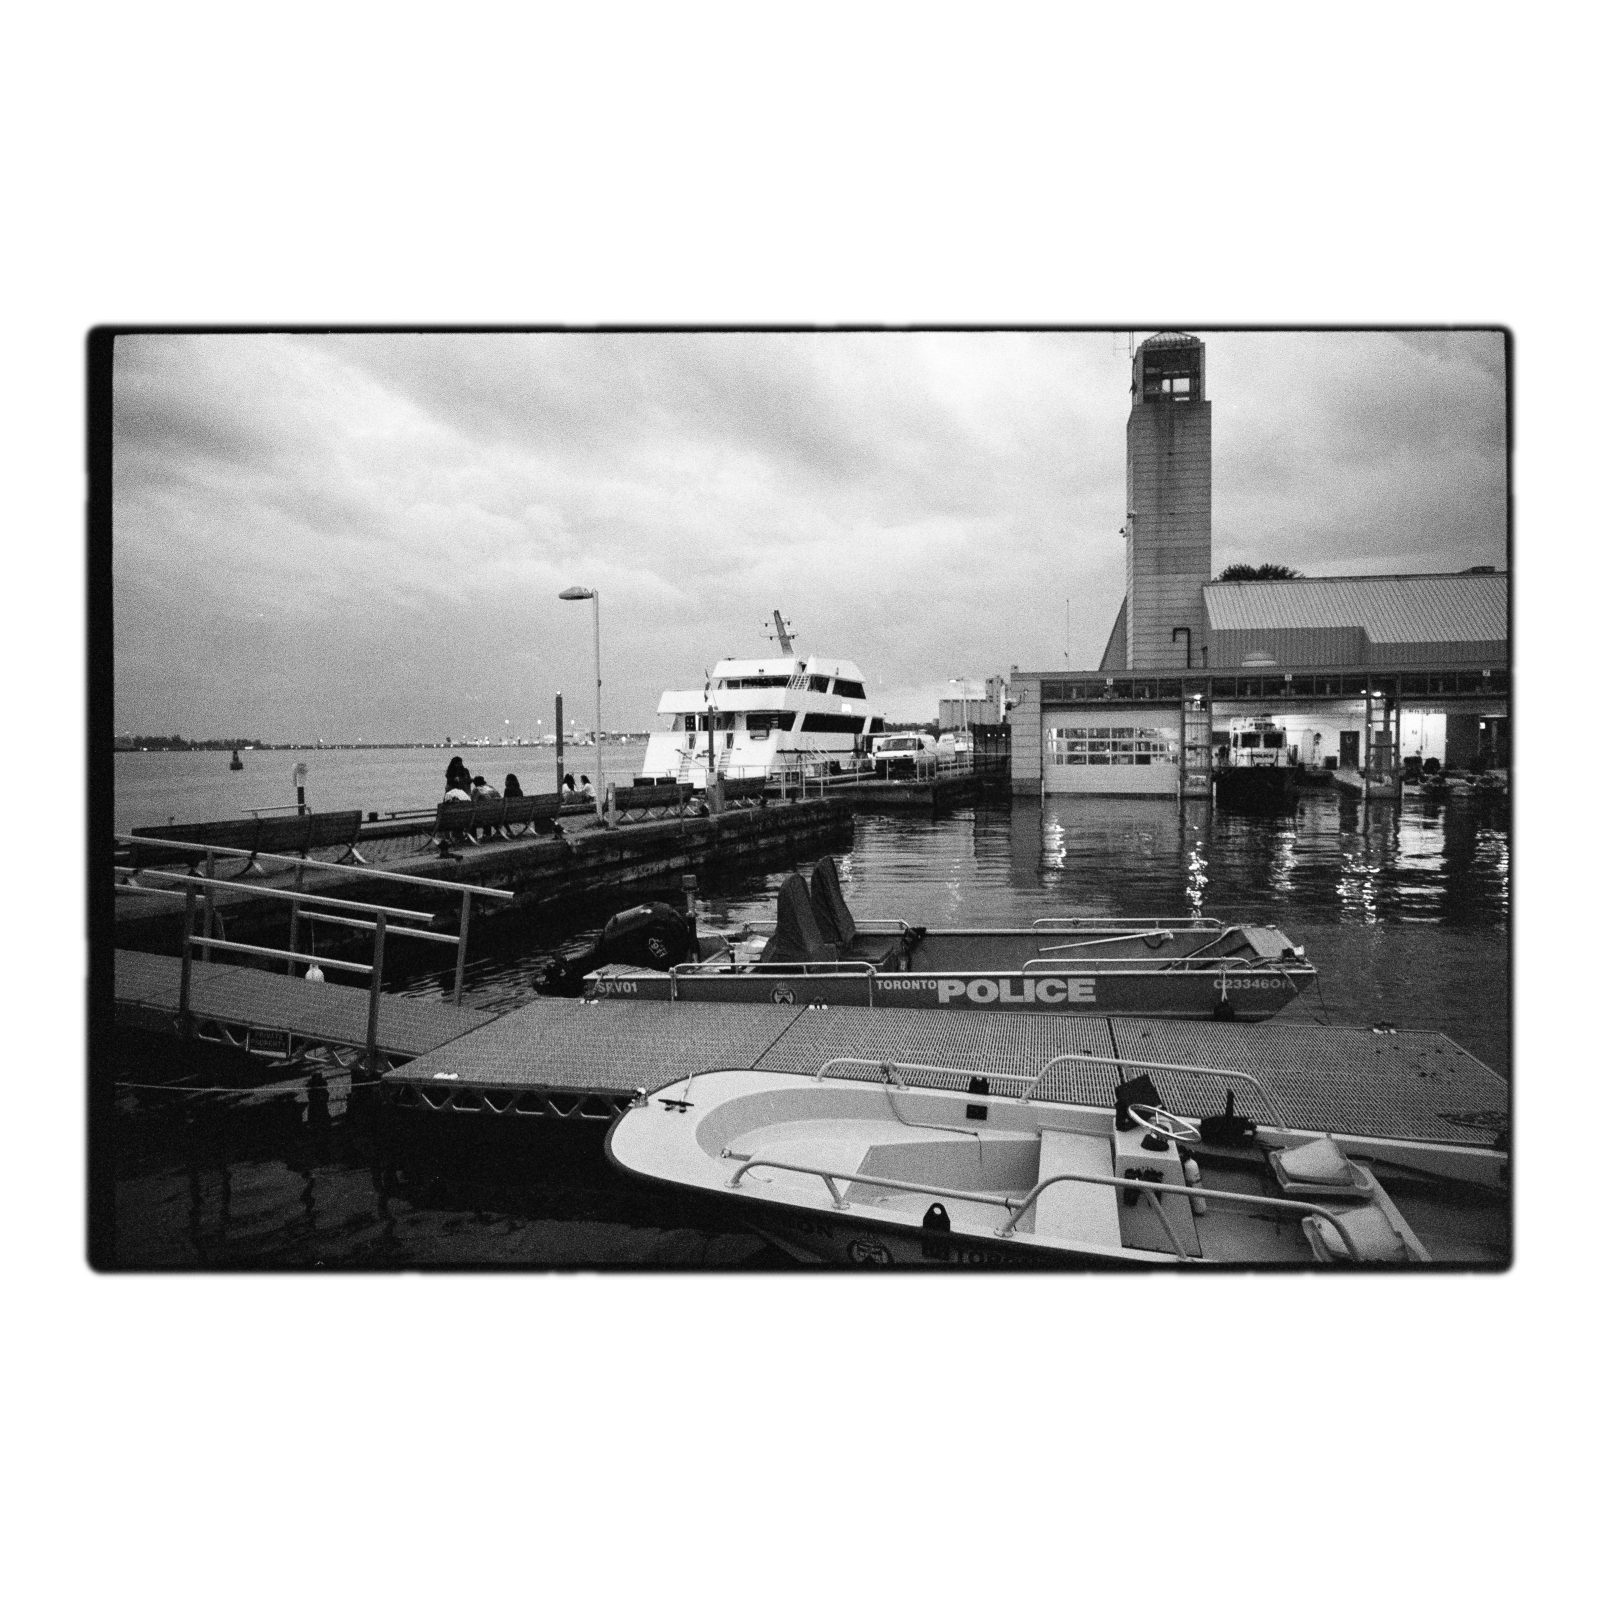
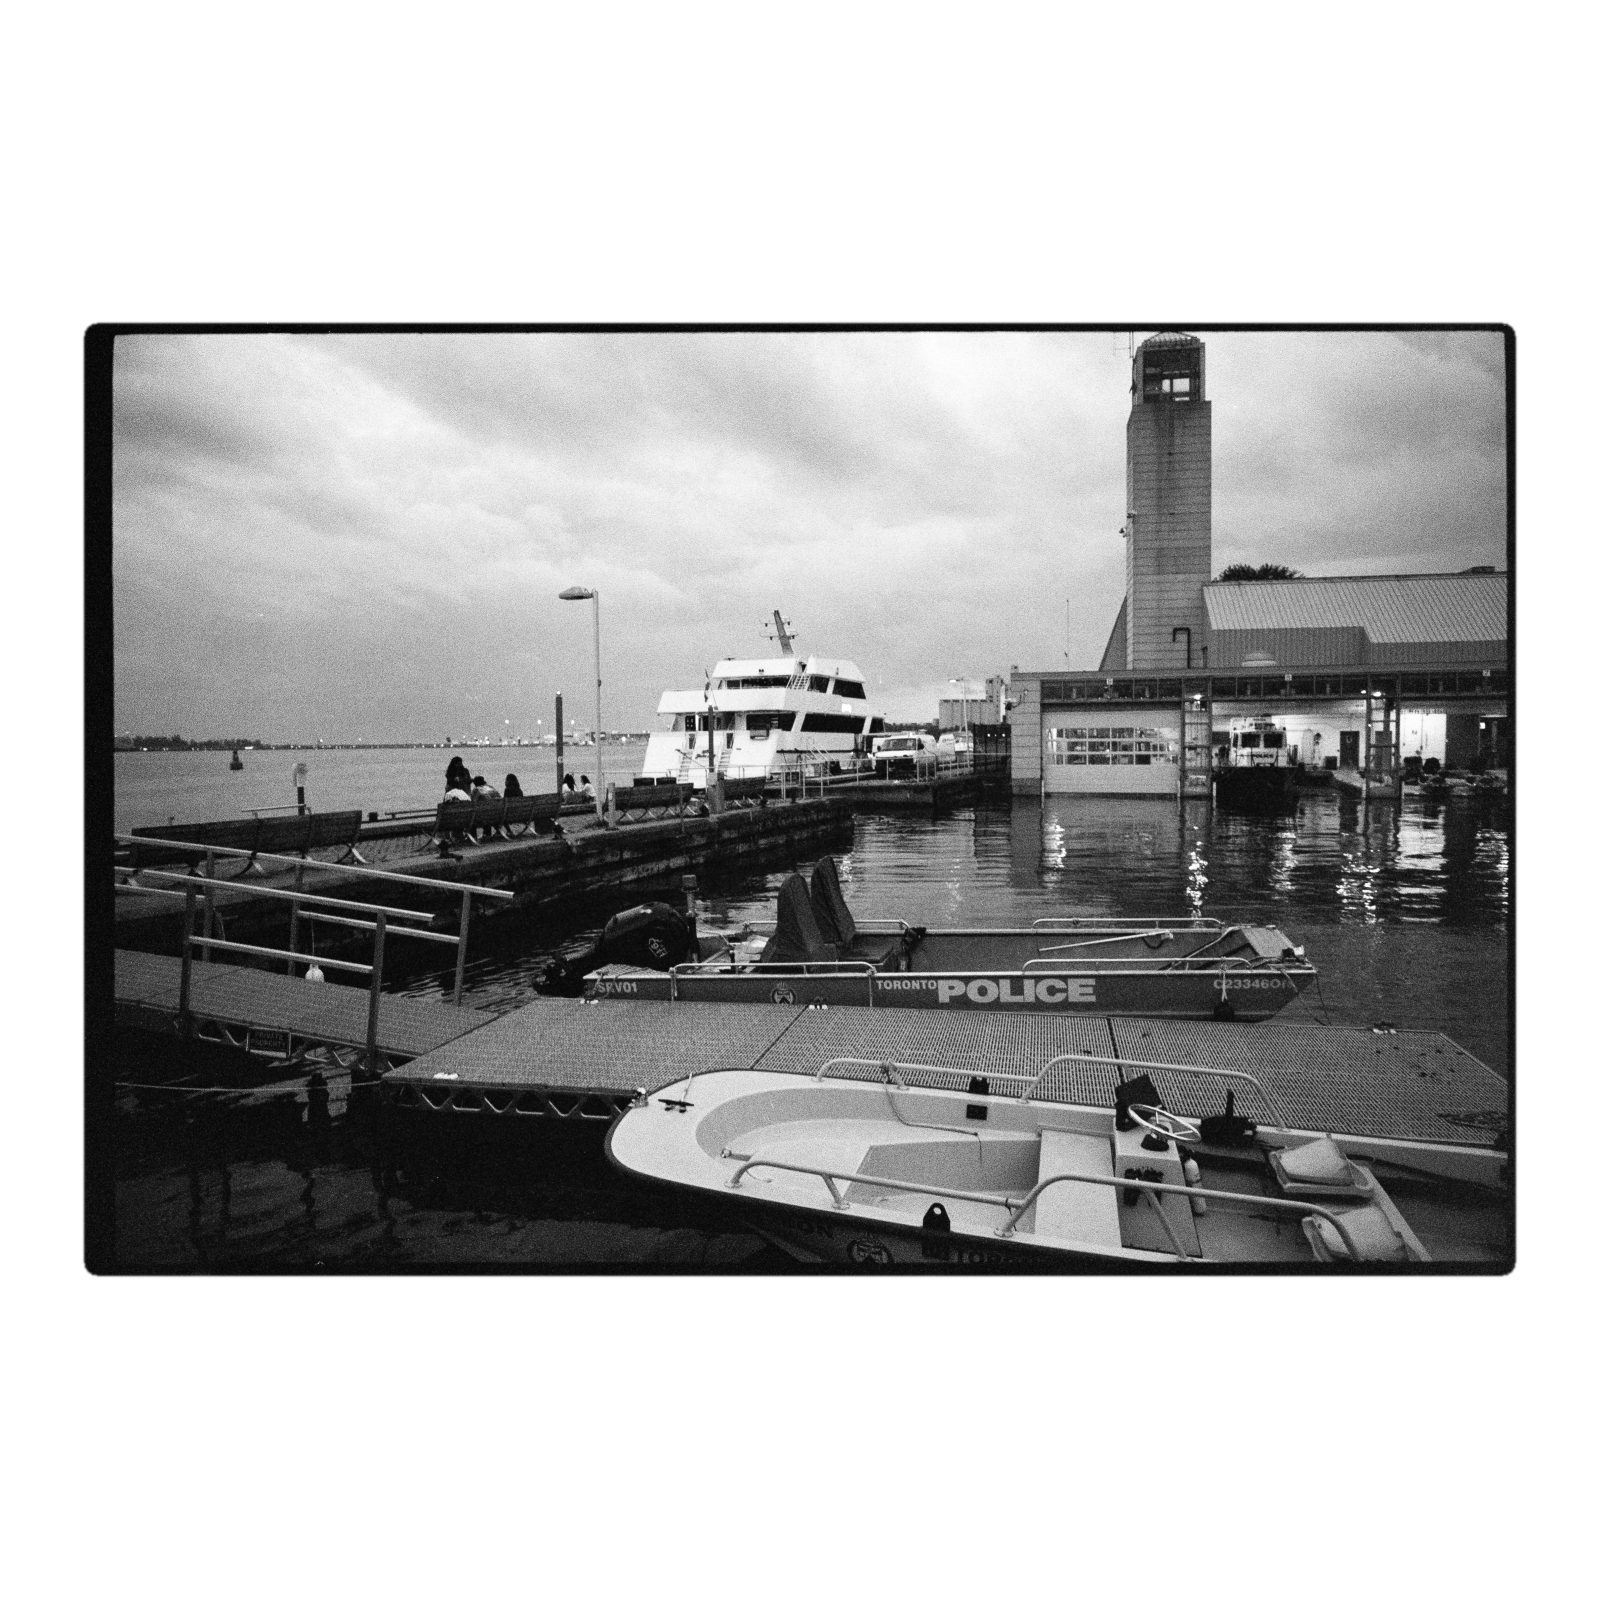
Simplify default edges (feather 1.0, roughness 0.25) and regenerate natural samples

diff --git a/rebate.py b/rebate.py
@@ -523,11 +523,11 @@ def main():
     ap.add_argument("--radius-jitter", type=float, default=0.25,
                     help="random +/- variation of the corner radius, as a "
                          "fraction (default 0.25)")
-    ap.add_argument("--roughness", type=float, default=0.5,
+    ap.add_argument("--roughness", type=float, default=0.25,
                     help="edge irregularity in px (0 = perfectly straight; "
-                         "default 0.5)")
-    ap.add_argument("--feather", type=float, default=2.5,
-                    help="edge softness in px (default 2.5)")
+                         "default 0.25)")
+    ap.add_argument("--feather", type=float, default=1.0,
+                    help="edge softness in px (default 1.0)")
     ap.add_argument("--seed", type=int, default=None,
                     help="random seed for edge texture (default: random)")
     ap.add_argument("--quality", type=int, default=100,

diff --git a/README.md b/README.md
@@ -64,8 +64,8 @@ Or explicitly:
 | `--border`    | `0.012`         | film border kept around the gate (fraction of gate height)|
 | `--radius`    | `0.015`         | corner radius (fraction of final crop size)              |
 | `--radius-jitter` | `0.25`       | random +/- variation of corner radius (fraction)         |
-| `--roughness` | `0.5`           | edge irregularity in px (0 = perfectly straight)         |
-| `--feather`   | `2.5`           | edge softness in px (0 = hard edge)                      |
+| `--roughness` | `0.25`          | edge irregularity in px (0 = perfectly straight)         |
+| `--feather`   | `1.0`           | edge softness in px (0 = hard edge)                      |
 | `--sprocket-chance` | `0.5`      | chance (0-1) a tiny sliver of sprockets is visible, per side (top/bottom) |
 | `--seed`      | random          | random seed for edge texture (for reproducibility)       |
 | `--quality`   | `100`           | JPEG quality 1-100                                       |
